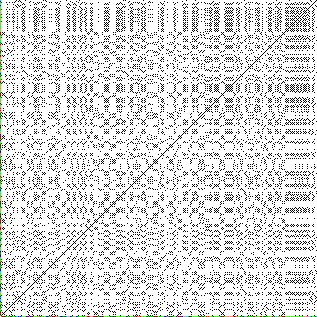
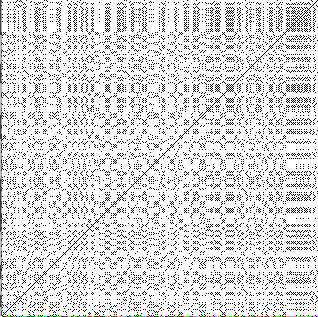
Merge remote-tracking branch 'origin/master'
# Conflicts:
#	.idea/workspace.xml
#	Analysen/graphs/2_vp11_graph.png
#	Analysen/graphs/2_vp12_graph.png
#	Analysen/graphs/2_vp21_graph.png
#	Analysen/graphs/2_vp22_graph.png
#	Analysen/graphs/2_vp31_graph.png
#	Analysen/graphs/3_vp11_graph.png
#	Analysen/graphs/3_vp12_graph.png
#	Analysen/graphs/3_vp21_graph.png
#	Analysen/graphs/vp11_graph.png
#	Analysen/graphs/vp12_graph.png
#	Analysen/graphs/vp21_graph.png
#	Analysen/graphs/vp22_graph.png
#	Analysen/graphs/vp31_graph.png
#	main.py

Changed region(s): [[0.0, 0.0, 0.9085, 1.0]]

diff --git a/main.py b/main.py
@@ -20,8 +20,12 @@ ANALYSEN_PATH = 'Analysen'
 CSV_PATH = 'csv'
 GRAPH_PATH = 'graphs'
 RECURRENCE_PATH = 'recPlots'
+# change this dictionary if you want to change how the gaze directions are translated into colors; for current setup see
+# Colored_CodingGrid.png
 NUMBER2COLOR = {0: (102, 102, 102), 1: (0, 204, 255), 2: (0, 0, 255), 3: (0, 0, 128), 4: (102, 255, 51), 5: (0, 255, 0),
                 6: (0, 128, 0), 7: (255, 128, 128), 8: (255, 0, 0), 9: (128, 0, 0)}
+GREY1 = (191,191,191)
+GREY2 = (64, 64, 64)
 
 
 def analyze_eye_movement_patterns(interval_tier):
@@ -105,27 +109,18 @@ def create_transition_graph_from_dict(pattern_dict, withFive=True):
 
 
 def create_recurrence_plot_from_intervaltier(interval_tier, destination, withFive=True):
+
+    # turn interval tier into list of marks
     data_points = [interval.mark() for interval in interval_tier]
 
+    # remove all fives if desired
     if not withFive:
         data_points = [mark for mark in data_points if mark != '5']
 
-    dic = dict()
-    to_remove = []
-    for n in range(len(data_points)):
-        dic[n] = data_points[n]
+    data_points_clean = remove_doubles_from_list(data_points)
 
-    for key in dic:
-        if key == 0:
-            continue
-        if dic[key] == dic[key - 1]:
-            to_remove.append(key)
-    for n in to_remove:
-        del dic[n]
 
-    data_points = list(dic.values())
-
-    time_series = TimeSeries(data_points, embedding_dimension=1, time_delay=0)
+    time_series = TimeSeries(data_points_clean, embedding_dimension=1, time_delay=0)
     settings = Settings(time_series,
                         computing_type=ComputingType.Classic,
                         neighbourhood=FixedRadius(0.65),
@@ -149,8 +144,29 @@ def create_recurrence_plot_from_intervaltier(interval_tier, destination, withFiv
     add_numbers_to_recurrence_plot(data_points, destination + "_recPlot.png")
 
 
-def cleanup_IntervalTier(intervals):
+def remove_doubles_from_list(data_points):
 
+    # this elaborate code is designed to remove all subsequently recurring numbers in the gaze directions.
+    # needed because during the encoding process, two subsequent 5s were sometimes placed right next to each other
+    dic = dict()
+    to_remove = []
+    # enumerate all data points
+    for n in range(len(data_points)):
+        dic[n] = data_points[n]
+    for key in dic:
+        # can't remove the first one, so skip
+        if key == 0:
+            continue
+        # if the two values next to each other are the same, ad done of them to the 2remove list
+        if dic[key] == dic[key - 1]:
+            to_remove.append(key)
+    # remove all previously identified values
+    for n in to_remove:
+        del dic[n]
+    return list(dic.values())
+
+
+def cleanup_IntervalTier(intervals):
 
     # change interval marks to literals where applicable
     for interval in intervals:
@@ -158,23 +174,62 @@ def cleanup_IntervalTier(intervals):
             interval.change_text(interval.mark()[0])
 
 
-def add_numbers_to_recurrence_plot(numbers, recPlot):
+def add_numbers_to_recurrence_plot(numbers, recPlot, withQuestions=True):
+
+    # open recurrence plot
     plotIm = Image.open(recPlot)
-    newPlotIm = Image.new(plotIm.mode, (plotIm.width + 1, plotIm.height + 1), color='white')
-    newPlotIm.paste(plotIm, box=(1, 0))
 
-    colordict = defaultdict(list)
+    if not withQuestions:
+        horiOffset = 1
+    else:
+        horiOffset = 2
+    # create new image, but 1px or 2px wider and 1px higher, depending on withQuestions, with backgroundcolor white
+    newPlotIm = Image.new(plotIm.mode, (plotIm.width + horiOffset, plotIm.height + 1), color='white')
+    # paste the opened recPlot into the new image at location (1,0) so that there remains a white strip to the left and
+    # at the bottom of the new image
+    newPlotIm.paste(plotIm, box=(horiOffset, 0))
 
+    # create a dictionary to store the colors representing the numbers in; for reference see Colored_CodingGrid.png
+    number_color_dict = dict()
+
+    # fill in the colors corresponding to the numbers as specified in NUMBER2COLOR
     for number in NUMBER2COLOR:
-        colordict[NUMBER2COLOR[number]] = []
+        number_color_dict[NUMBER2COLOR[number]] = []
 
-    for number in range(len(numbers)):
-        colordict[NUMBER2COLOR[int(numbers[number])]] += [(0, (newPlotIm.height-2) - (number)), (number+1, newPlotIm.height-1)]
+    numbers_clean = remove_doubles_from_list(numbers)
+
+    # fill in the dictionary with points at which to draw a particular color
+    for number in range(len(numbers_clean)):
+        number_color_dict[NUMBER2COLOR[int(numbers_clean[number])]] += [(horiOffset-1, (newPlotIm.height-2) - (number)), (number+horiOffset, newPlotIm.height-1)]
 
     plotDraw = ImageDraw.Draw(newPlotIm)
 
-    for color in colordict:
-         plotDraw.point(colordict[color], color)
+    if withQuestions:
+        for color in number_color_dict:
+             plotDraw.point(number_color_dict[color], color)
+
+        question_color_dict = dict()
+        question_color_dict[GREY1] = [(0, newPlotIm.height-2)]
+        question_color_dict[GREY2] = []
+
+        grey = GREY1
+        fivesfound = 0
+        for n in range(len(numbers)):
+
+            if n == 0:
+                continue
+            if numbers[n] == '5' and  numbers[n-1] == '5':
+                fivesfound +=1
+                if grey == GREY1:
+                    grey = GREY2
+                else:
+                    grey = GREY1
+            else:
+                question_color_dict[grey] += (0, (newPlotIm.height -2) - (n-fivesfound))
+
+        for color in question_color_dict:
+            plotDraw.point(question_color_dict[color], color)
+
 
     newPlotIm.save(recPlot[:-4] + "_numbered.png")
 
